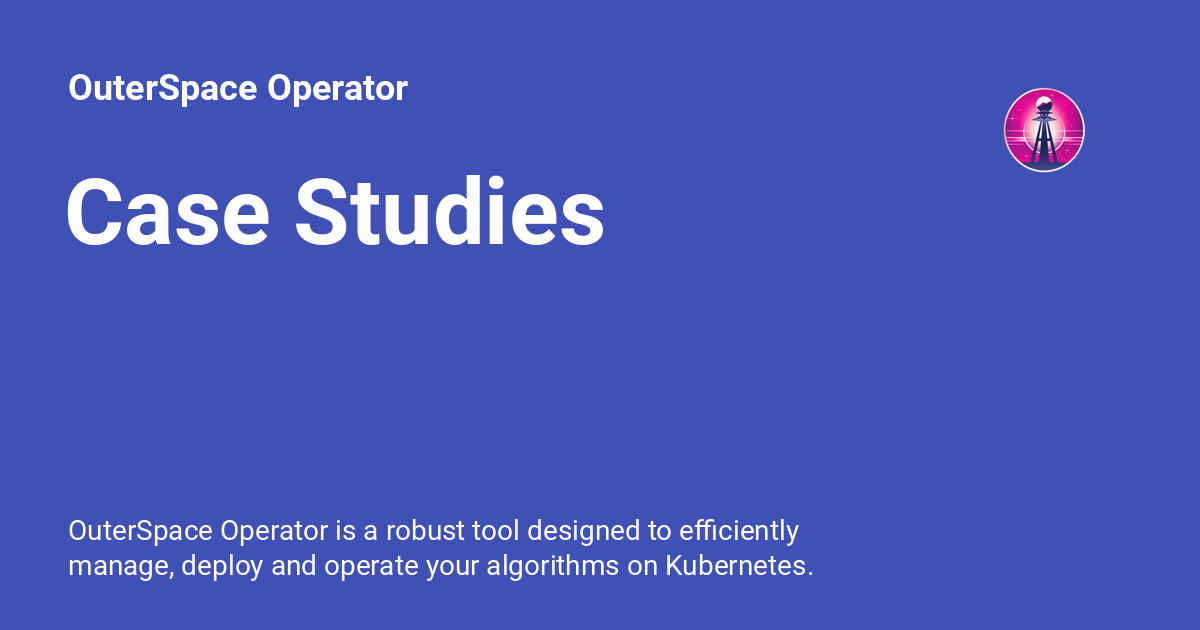
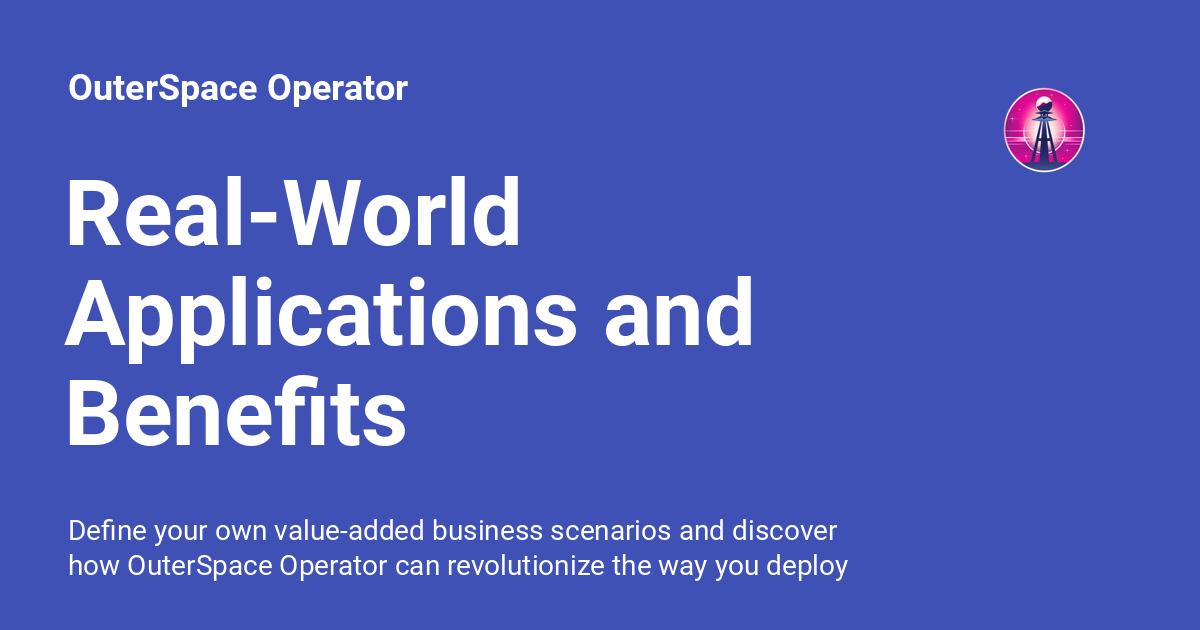
feat: adding product hunt

diff --git a/docs/usecases/index.html b/docs/usecases/index.html
@@ -6,7 +6,7 @@
       <meta charset="utf-8">
       <meta name="viewport" content="width=device-width,initial-scale=1">
       
-        <meta name="description" content="OuterSpace Operator is a robust tool designed to efficiently manage, deploy and operate your algorithms on Kubernetes. Install and configure OuterSpace Operator thanks to our comprehensive documentation.">
+        <meta name="description" content="Define your own value-added business scenarios and discover how OuterSpace Operator can revolutionize the way you deploy algorithms in the cloud.">
       
       
         <meta name="author" content="Ludovic FERNANDEZ, Alien6">
@@ -26,7 +26,7 @@
     
     
       
-        <title>Case Studies - OuterSpace Operator</title>
+        <title>Real-World Applications and Benefits - OuterSpace Operator</title>
       
     
     
@@ -72,9 +72,9 @@
       
         <meta  property="og:type"  content="website" >
       
-        <meta  property="og:title"  content="Case Studies - OuterSpace Operator" >
+        <meta  property="og:title"  content="Real-World Applications and Benefits - OuterSpace Operator" >
       
-        <meta  property="og:description"  content="OuterSpace Operator is a robust tool designed to efficiently manage, deploy and operate your algorithms on Kubernetes. Install and configure OuterSpace Operator thanks to our comprehensive documentation." >
+        <meta  property="og:description"  content="Define your own value-added business scenarios and discover how OuterSpace Operator can revolutionize the way you deploy algorithms in the cloud." >
       
         <meta  property="og:image"  content="https://operator.outerspace.sh/assets/images/social/usecases.png" >
       
@@ -88,9 +88,9 @@
       
         <meta  name="twitter:card"  content="summary_large_image" >
       
-        <meta  name="twitter:title"  content="Case Studies - OuterSpace Operator" >
+        <meta  name="twitter:title"  content="Real-World Applications and Benefits - OuterSpace Operator" >
       
-        <meta  name="twitter:description"  content="OuterSpace Operator is a robust tool designed to efficiently manage, deploy and operate your algorithms on Kubernetes. Install and configure OuterSpace Operator thanks to our comprehensive documentation." >
+        <meta  name="twitter:description"  content="Define your own value-added business scenarios and discover how OuterSpace Operator can revolutionize the way you deploy algorithms in the cloud." >
       
         <meta  name="twitter:image"  content="https://operator.outerspace.sh/assets/images/social/usecases.png" >
       
@@ -175,7 +175,7 @@ For updates follow <strong>@__alien6</strong> on
         <div class="md-header__topic" data-md-component="header-topic">
           <span class="md-ellipsis">
             
-              Case Studies
+              Real-World Applications and Benefits
             
           </span>
         </div>

diff --git a/docs/index.html b/docs/index.html
@@ -383,9 +383,10 @@ For updates follow <strong>@__alien6</strong> on
     </div>
   </div>
 </section>
-<section class="md-container" data-md-component="container">
+
+<section class="md-container" data-md-component="container" data-md-color-scheme="default">
   <div class="md-grid md-typeset">
-    <h1 class="mdx-project-title">Built-in Connectors</h1>
+    <h2 class="mdx-project-title">Built-in Connectors</h2>
     <h2 class="mdx-project-subtitle">Effortlessly Connect to Top-Tier Solutions with Our Integrated Kubernetes Operator</h2>
     <div class="mdx-project-grid">
       <div class="mdx-project">
@@ -453,6 +454,24 @@ For updates follow <strong>@__alien6</strong> on
     </div>
   </div>
 </section>
+
+
+<section class="md-container" data-md-color-scheme="default" data-md-color-primary="indigo">
+  <div class="md-grid md-typeset">
+    <div class="mdx-producthunt">
+      <h3>
+        We'd love to hear your feedback on OuterSpace Operator! 
+      </h3>
+      <p>
+        "What features would you like to see? How's the user experience? What are your thoughts on our branding? Would you consider joining our Insiders Program, which gives you exclusive access to our new features and updates? Your feedback is invaluable to us, and we appreciate your time and thoughts. Please review OuterSpace Operator on ProductHunt. Thank you so much! Ludovic, CEO of Alien6"
+      </p>
+      <p>
+        <a href="https://www.producthunt.com/posts/outerspace-operator?utm_source=badge-featured&utm_medium=badge&utm_souce=badge-outerspace&#0045;operator" target="_blank"><img src="https://api.producthunt.com/widgets/embed-image/v1/featured.svg?post_id=406661&theme=neutral" alt="OuterSpace&#0032;Operator - Operate&#0032;your&#0032;algorithms&#0032;on&#0032;Kubernetes&#0032;with&#0032;ease | Product Hunt" style="width: 250px; height: 54px;" width="250" height="54" /></a>
+      </p>
+      </div>
+  </div>
+</section>
+
 <section class="mdx-parallax__group" data-md-color-scheme="slate" data-md-color-primary="indigo">
   <div class="md-grid">
     <div class="md-content__inner mdx-content__inner">

diff --git a/docs/assets/stylesheets/custom.f7ec4df2.min.css b/docs/assets/stylesheets/custom.f7ec4df2.min.css
@@ -665,7 +665,7 @@
     flex-basis: calc(33.33% - 5rem);
     /* Pour éviter le débordement de la dernière colonne */
     box-sizing: border-box;
-    background: #f2f2f2;
+    background: var(--md-default-fg-color--lighter)
 }
 
 /* Pour éviter le débordement de la dernière colonne */
@@ -698,7 +698,6 @@
     text-align: center;
     font-style: oblique;
     padding-bottom: 1em;
-    color: rgba(0, 0, 0, .4);
 }
 .mdx-project {
     display: flex;
@@ -709,9 +708,8 @@
     text-align: center;
     max-width: 100%;
     max-height: 100%;
-    filter: grayscale(1);
-    color: rgba(0, 0, 0, .8);
-    opacity: .6;
+    background-color: var(--md-code-bg-color);
+    color: var(--md-default-fg-color--light);
 }
 
 .mdx-project>* {
@@ -741,8 +739,8 @@
     transition: transform 0.2s;
     /* Animation douce quand on passe la souris sur le logo */
     margin: auto 0;
-    filter: #a63fd9;
-    opacity: 1;
+    filter: grayscale(1);
+    opacity: .6;
 }
 
 .mdx-project img:hover {
@@ -755,4 +753,28 @@
     font-weight: 300;
     text-align: center;
     padding: 1rem;
+    color: var(--md-default-fg-color--light);
+}
+
+/* Product Hunt */
+.mdx-producthunt {
+    text-align: center;
+    padding: 20px!important;
+    margin-bottom: 40px!important;
+    display: flex;
+    box-sizing: border-box;
+    flex-direction: column;
+}
+.mdx-producthunt h3 {
+    font-weight: 600;
+    font-size: 18px;
+    line-height: 28px;
+}
+.mdx-producthunt p {
+    margin-top: 12px!important;
+    margin-bottom: 12px!important;
+    font-weight: 400;
+    font-size: 16px;
+    line-height: 24px;
+    font-style: italic;
 }
